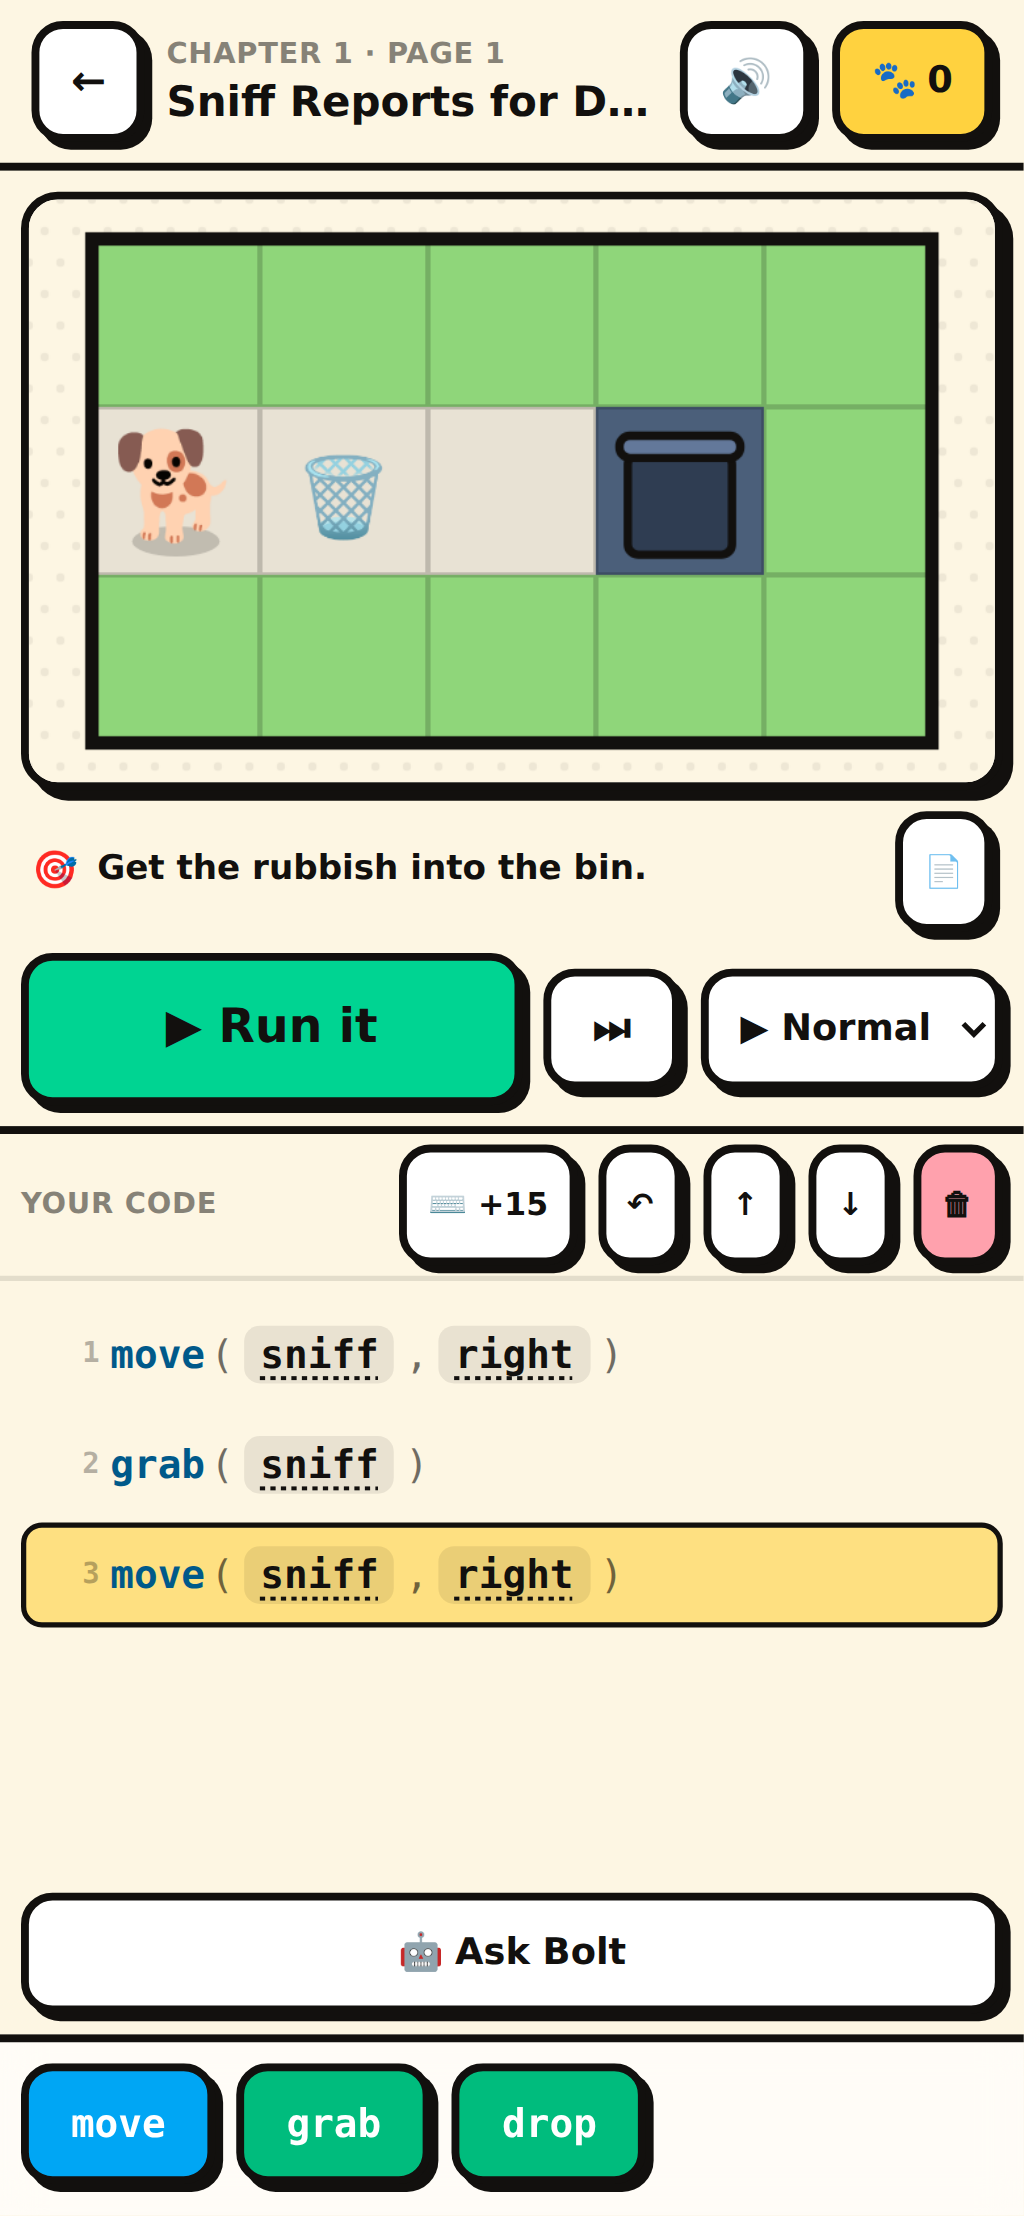
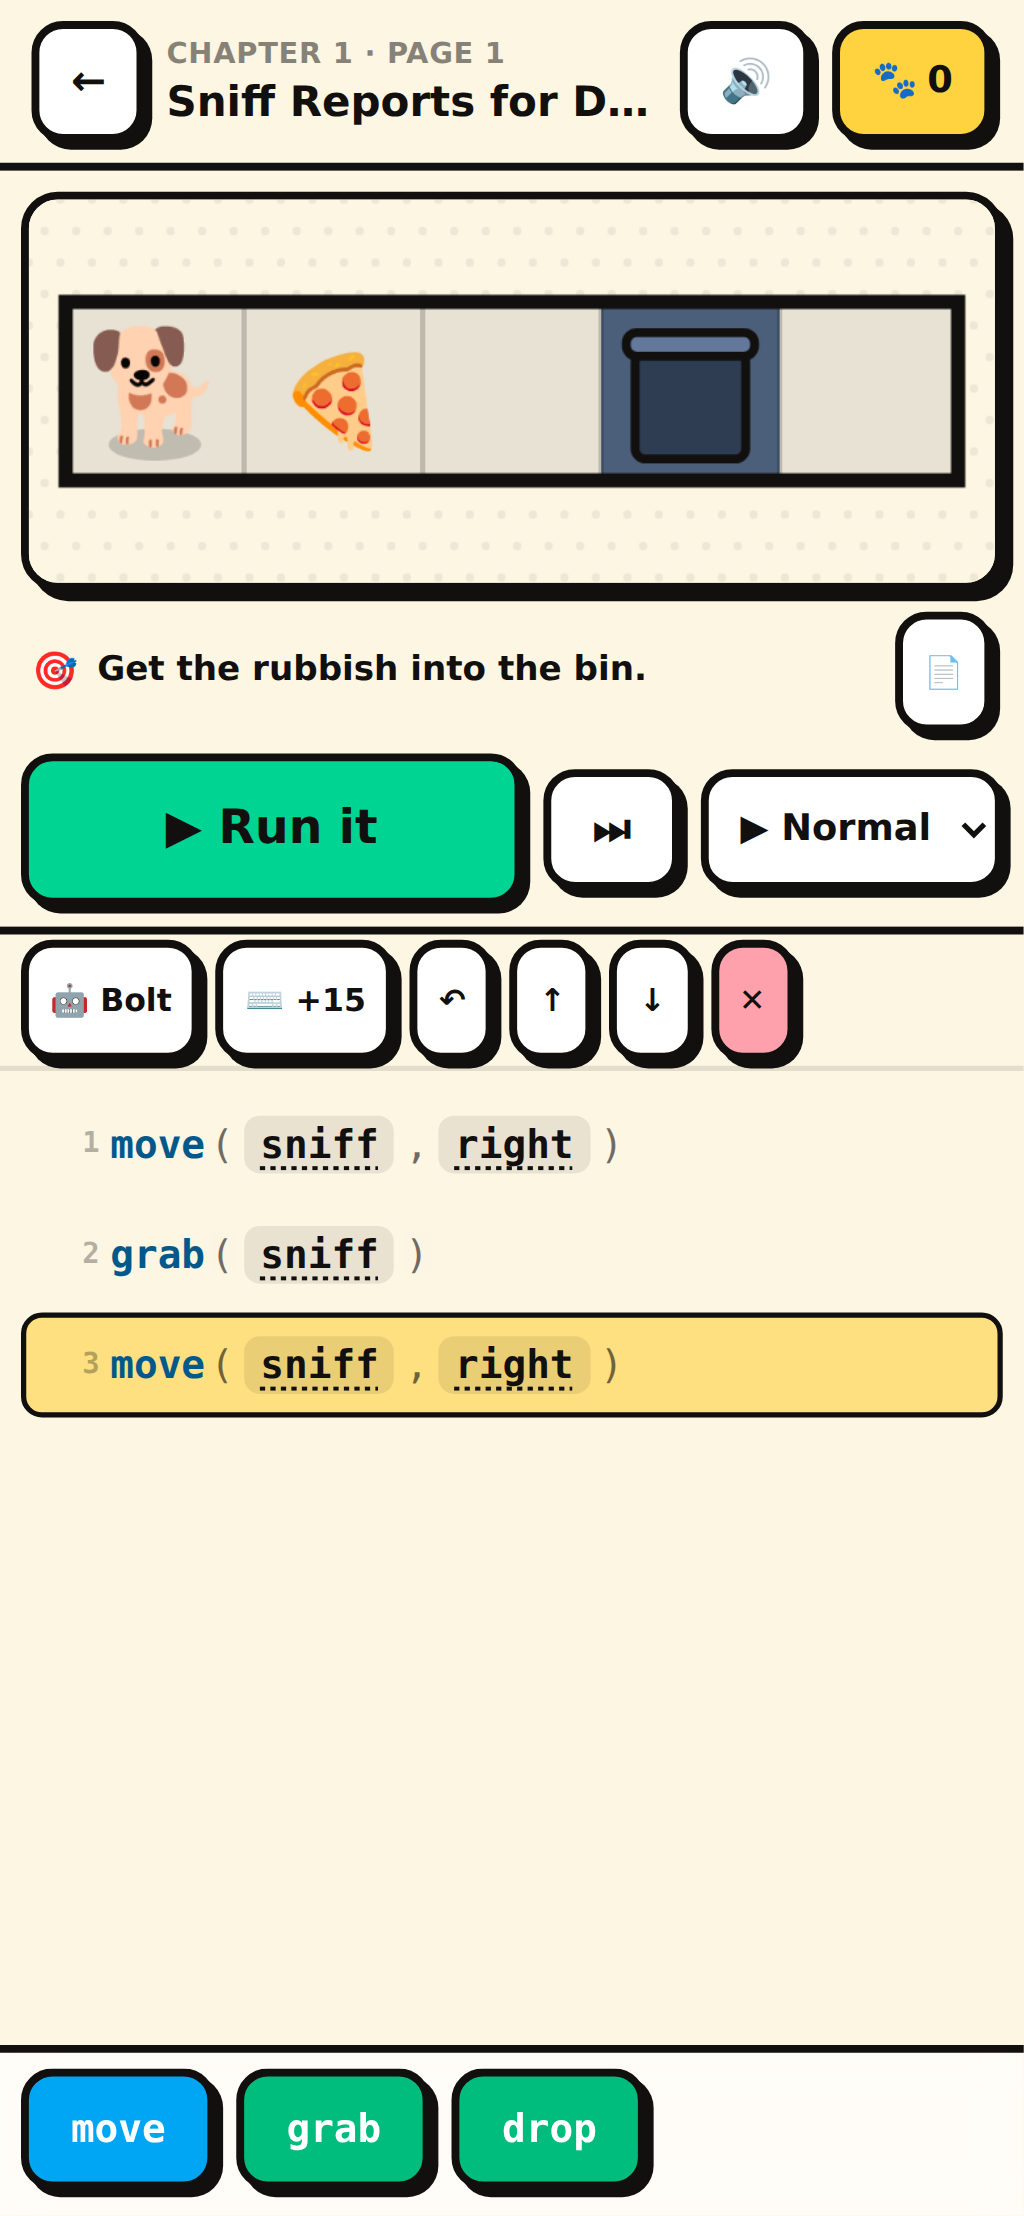
Fix two problems found playtesting on Henry's phone
He could not see his own code, and he could not tell the rubbish from the bin.

THE CODE WAS BURIED. On a real phone — 390x844 minus Chrome's own UI, so about
660px — the stage, goal, run bar, Bolt's error block and a full-width Ask Bolt
row all claimed fixed height first, and the code got whatever was left. That
was 40px: one line, clipped in half. The thing he is actually making was the
least visible thing on screen.

Three changes, measured rather than guessed:

- The level grids were three rows tall and only the middle one is ever walked
  on. The other two were decoration costing two-thirds of the stage height. The
  worlds are now one row, which lets the stage shrink from 158px to 119px while
  making Sniff considerably BIGGER, because height stops being the constraint.
- Bolt's error now replaces the goal line rather than taking a block of its
  own. Two earlier attempts were both wrong: a block of its own squeezed the
  code, and an overlay covered the row of the world where the mistake actually
  happened, which is the half of the lesson you can see.
- Ask Bolt moved into the code toolbar, and the toolbar and brick bar lost
  padding they did not need. Touch targets stay at 46px.

Code area: 40px to 201px. There is a regression test at 390x660 that builds
code, forces an error, and asserts the code panel is over 180px and on screen.

THE RUBBISH WAS A BIN. It was drawn as the wastebasket emoji, on a board whose
[…]

diff --git a/app/play/[levelId]/PlayScreen.tsx b/app/play/[levelId]/PlayScreen.tsx
@@ -289,49 +289,73 @@ export function PlayScreen({ levelId }: { levelId: string }) {
       <div className="flex min-h-0 flex-1 flex-col lg:flex-row">
         {/* Stage */}
         <section className="flex min-h-0 shrink-0 flex-col gap-2 p-2 lg:flex-1">
-          <div className="h-[27dvh] min-h-36 lg:h-auto lg:max-h-[62dvh] lg:flex-1">
+          <div className="relative h-[18dvh] min-h-24 lg:h-auto lg:max-h-[34dvh] lg:flex-1">
             <Stage world={world} frames={runResult?.frames ?? []} index={playback.index} t={playback.t} />
+
           </div>
 
-          <div className="flex items-center gap-2 px-1">
-            <span className="text-sm">🎯</span>
-            <p className="min-w-0 flex-1 truncate text-[13px] font-bold">{level.goalText}</p>
-            <button
-              type="button"
-              onClick={() => setShowBrief(true)}
-              className="chunk min-h-9 bg-white px-2 text-xs"
-              title="Read the case file again"
-            >
-              📄
-            </button>
-          </div>
-
-          <RunBar playback={playback} hasCode={program.length > 0} onRun={run} onStop={playback.pause} />
-
-          {banner && (
-            <div className="panel shake border-danger bg-rose-50 p-3">
-              <p className="text-sm font-black leading-snug">🤖 {banner.boltSays}</p>
-              {banner.tryThis && <p className="mt-1 text-xs font-bold opacity-70">{banner.tryThis}</p>}
+          {/* While something has gone wrong, Bolt says so HERE, in place of the
+              goal. Two earlier versions were both wrong: a block of its own
+              squeezed the code down to one clipped line on a phone, and an
+              overlay covered the row of the world where the mistake actually
+              happened — which is the half of the lesson you can see. */}
+          {banner ? (
+            <div className="panel shake flex items-start gap-2 border-danger bg-rose-50 px-2 py-1">
+              <span className="text-sm leading-5">🤖</span>
+              <div className="min-w-0 flex-1">
+                <p className="line-clamp-2 text-[13px] font-black leading-snug">{banner.boltSays}</p>
+                {banner.tryThis && (
+                  <p className="line-clamp-1 text-[11px] font-bold leading-snug opacity-70">{banner.tryThis}</p>
+                )}
+              </div>
+              <button
+                type="button"
+                onClick={() => setBanner(null)}
+                aria-label="Close"
+                className="-mt-0.5 px-1 text-sm font-black opacity-45"
+              >
+                ✕
+              </button>
+            </div>
+          ) : (
+            <div className="flex items-center gap-2 px-1">
+              <span className="text-sm">🎯</span>
+              <p className="min-w-0 flex-1 truncate text-[13px] font-bold">{level.goalText}</p>
+              <button
+                type="button"
+                onClick={() => setShowBrief(true)}
+                className="chunk min-h-9 bg-white px-2 text-xs"
+                title="Read the case file again"
+              >
+                📄
+              </button>
             </div>
           )}
+
+          <RunBar playback={playback} hasCode={program.length > 0} onRun={run} onStop={playback.pause} />
         </section>
 
         {/* Code */}
-        <section className="flex min-h-0 flex-1 flex-col border-t-[3px] border-ink lg:border-l-[3px] lg:border-t-0">
-          <div className="flex items-center gap-2 border-b-2 border-black/10 px-2 py-1">
-            <span className="flex-1 text-[11px] font-black uppercase tracking-wide opacity-50">Your code</span>
-            <button type="button" onClick={() => setTyping((v) => !v)} className="chunk bg-white px-2 text-xs" title="Type a line yourself for bonus XP">
+        <section className="flex min-h-[32dvh] flex-1 flex-col border-t-[3px] border-ink lg:min-h-0 lg:border-l-[3px] lg:border-t-0">
+          <div className="flex items-center gap-1.5 border-b-2 border-black/10 px-2 py-0.5">
+            <span className="hidden text-[11px] font-black uppercase tracking-wide opacity-50 sm:block sm:flex-1">
+              Your code
+            </span>
+            <button type="button" onClick={() => setShowBolt(true)} className="chunk min-h-9 bg-white px-2 text-xs">
+              🤖 Bolt
+            </button>
+            <button type="button" onClick={() => setTyping((v) => !v)} className="chunk min-h-9 bg-white px-2 text-xs" title="Type a line yourself for bonus XP">
               ⌨ +{15}
             </button>
-            <button type="button" onClick={undo} disabled={!history.length} className="chunk bg-white px-2 text-xs">
+            <button type="button" onClick={undo} disabled={!history.length} className="chunk min-h-9 bg-white px-2 text-xs">
               ↶
             </button>
             {selection && (
               <>
-                <button type="button" onClick={() => setProgram(moveStmt(program, selection.stmtId, -1))} className="chunk bg-white px-2 text-xs">
+                <button type="button" onClick={() => setProgram(moveStmt(program, selection.stmtId, -1))} className="chunk min-h-9 bg-white px-2 text-xs">
                   ↑
                 </button>
-                <button type="button" onClick={() => setProgram(moveStmt(program, selection.stmtId, 1))} className="chunk bg-white px-2 text-xs">
+                <button type="button" onClick={() => setProgram(moveStmt(program, selection.stmtId, 1))} className="chunk min-h-9 bg-white px-2 text-xs">
                   ↓
                 </button>
                 <button
@@ -340,9 +364,9 @@ export function PlayScreen({ levelId }: { levelId: string }) {
                     setProgram(removeStmt(program, selection.stmtId));
                     setSelection(null);
                   }}
-                  className="chunk bg-rose-300 px-2 text-xs"
+                  className="chunk min-h-9 bg-rose-300 px-2 text-xs"
                 >
-                  🗑
+                  ✕
                 </button>
               </>
             )}
@@ -367,7 +391,7 @@ export function PlayScreen({ levelId }: { levelId: string }) {
             </div>
           )}
 
-          <div className="min-h-0 flex-1 overflow-y-auto">
+          <div data-testid="code-scroll" className="min-h-0 flex-1 overflow-y-auto">
             <CodeList
               program={program}
               selection={selection}
@@ -377,10 +401,6 @@ export function PlayScreen({ levelId }: { levelId: string }) {
               errorStmtId={runResult?.error?.stmtId ?? null}
             />
           </div>
-
-          <button type="button" onClick={() => setShowBolt(true)} className="chunk mx-2 mb-2 bg-white py-2 text-sm">
-            🤖 Ask Bolt
-          </button>
 
           <BrickBar brickIds={level.bricks} onTap={tapBrick} onShowHelp={(b) => setBanner(new CoderXError(BRICKS[b.id].help))} />
         </section>

diff --git a/curriculum/chapter1/levels.ts b/curriculum/chapter1/levels.ts
@@ -13,8 +13,6 @@ import { parse } from '@/lang/parser';
 import { buildWorld } from '@/runtime/world';
 import type { Level } from '../types';
 
-const grass = (n: number) => '.'.repeat(n);
-
 export const CHAPTER1: Level[] = [
   {
     id: 'c1l1',
@@ -28,9 +26,9 @@ export const CHAPTER1: Level[] = [
     goalText: 'Get the rubbish into the bin.',
     makeWorld: () =>
       buildWorld({
-        grid: [grass(5), '---B.', grass(5)],
-        sprites: { sniff: { character: 'sniff', x: 0, y: 1 } },
-        rubbish: [{ x: 1, y: 1 }],
+        grid: ['---B-'],
+        sprites: { sniff: { character: 'sniff', x: 0, y: 0 } },
+        rubbish: [{ x: 1, y: 0 }],
       }),
     makeStarter: () => [],
     bricks: ['move', 'grab', 'drop'],
@@ -63,9 +61,9 @@ drop(sniff)`,
     goalText: 'Bin the rubbish, but use the number box.',
     makeWorld: () =>
       buildWorld({
-        grid: [grass(7), '-----B.', grass(7)],
-        sprites: { sniff: { character: 'sniff', x: 0, y: 1 } },
-        rubbish: [{ x: 2, y: 1 }],
+        grid: ['-----B-'],
+        sprites: { sniff: { character: 'sniff', x: 0, y: 0 } },
+        rubbish: [{ x: 2, y: 0 }],
       }),
     makeStarter: () => [],
     bricks: ['move-n', 'move', 'grab', 'drop'],
@@ -97,9 +95,9 @@ drop(sniff)`,
     goalText: 'Use a repeat to cross all six squares.',
     makeWorld: () =>
       buildWorld({
-        grid: [grass(8), '------B.', grass(8)],
-        sprites: { sniff: { character: 'sniff', x: 0, y: 1 } },
-        rubbish: [{ x: 0, y: 1 }],
+        grid: ['------B-'],
+        sprites: { sniff: { character: 'sniff', x: 0, y: 0 } },
+        rubbish: [{ x: 0, y: 0 }],
       }),
     makeStarter: () => [],
     bricks: ['move-n', 'grab', 'drop', 'repeat'],
@@ -132,12 +130,12 @@ drop(sniff)`,
     goalText: 'Bin all three pieces of rubbish.',
     makeWorld: () =>
       buildWorld({
-        grid: [grass(7), '-B-B-B-', grass(7)],
-        sprites: { sniff: { character: 'sniff', x: 0, y: 1 } },
+        grid: ['-B-B-B-'],
+        sprites: { sniff: { character: 'sniff', x: 0, y: 0 } },
         rubbish: [
-          { x: 0, y: 1 },
-          { x: 2, y: 1 },
-          { x: 4, y: 1 },
+          { x: 0, y: 0 },
+          { x: 2, y: 0 },
+          { x: 4, y: 0 },
         ],
       }),
     makeStarter: () => [],
@@ -171,12 +169,12 @@ drop(sniff)`,
     goalText: 'Bin every piece — without grabbing at nothing.',
     makeWorld: () =>
       buildWorld({
-        grid: [grass(6), 'BBBBB.', grass(6)],
-        sprites: { sniff: { character: 'sniff', x: 0, y: 1 } },
+        grid: ['BBBBB-'],
+        sprites: { sniff: { character: 'sniff', x: 0, y: 0 } },
         rubbish: [
-          { x: 0, y: 1 },
-          { x: 2, y: 1 },
-          { x: 3, y: 1 },
+          { x: 0, y: 0 },
+          { x: 2, y: 0 },
+          { x: 3, y: 0 },
         ],
       }),
     makeStarter: () => [],
@@ -212,12 +210,12 @@ drop(sniff)`,
     goalText: 'Bin everything, then make Sniff say something.',
     makeWorld: () =>
       buildWorld({
-        grid: [grass(11), 'B.B.B.B.B..', grass(11)],
-        sprites: { sniff: { character: 'sniff', x: 0, y: 1 } },
+        grid: ['B-B-B-B-B--'],
+        sprites: { sniff: { character: 'sniff', x: 0, y: 0 } },
         rubbish: [
-          { x: 0, y: 1 },
-          { x: 4, y: 1 },
-          { x: 8, y: 1 },
+          { x: 0, y: 0 },
+          { x: 4, y: 0 },
+          { x: 8, y: 0 },
         ],
       }),
     makeStarter: () => [],

diff --git a/e2e/play.spec.ts b/e2e/play.spec.ts
@@ -149,3 +149,44 @@ test('a nested if inside a repeat can be built by tapping', async ({ page }) => 
   await page.getByRole('button', { name: /Run it/ }).click();
   await expect(page.getByRole('heading', { name: 'Nailed it!' })).toBeVisible({ timeout: 30_000 });
 });
+
+/**
+ * Regression from real playtesting on a phone.
+ *
+ * Henry could not see his own code: it had been squeezed to a single clipped
+ * line at the bottom of the screen, because the stage, the goal, the run bar,
+ * Bolt's error block and an Ask Bolt row all took fixed height first and the
+ * code got whatever was left. The viewport here is deliberately 660px — a
+ * 390x844 phone minus the browser's own chrome, which is what he actually has.
+ */
+test('the code stays visible on a real phone, even with an error showing', async ({ page }) => {
+  await page.setViewportSize({ width: 390, height: 660 });
+  await enterHQ(page);
+  await openLevelOne(page);
+
+  // Grabbing before moving finds nothing — the worst case for layout, because
+  // Bolt's error used to take a whole block of its own.
+  await tapBrick(page, 'grab');
+  await tapBrick(page, 'move', goRight(page));
+  await tapBrick(page, 'move', goRight(page));
+
+  await page.getByRole('button', { name: /Run it/ }).click();
+  await expect(page.getByText(/grabbed some air|bonked/)).toBeVisible({ timeout: 20_000 });
+
+  const scroller = page.getByTestId('code-scroll');
+  const box = await scroller.boundingBox();
+  expect(box).not.toBeNull();
+
+  // Enough room for several lines, not one clipped one. It was 40px.
+  expect(box!.height).toBeGreaterThan(180);
+  // And it must sit inside the viewport rather than off the bottom.
+  expect(box!.y + box!.height).toBeLessThanOrEqual(660);
+
+  // The first line of his code is actually on screen.
+  const first = page.getByRole('listitem').first();
+  const fb = await first.boundingBox();
+  expect(fb!.y).toBeGreaterThan(box!.y - 1);
+  expect(fb!.y + fb!.height).toBeLessThanOrEqual(660);
+
+  await page.screenshot({ path: 'screenshots/phone-small-play.png' });
+});

diff --git a/runtime/render.ts b/runtime/render.ts
@@ -11,6 +11,21 @@ import { CHARACTERS, type Effect, type Frame, type WorldState } from './world';
 
 const INK = '#12100e';
 
+/**
+ * Litter, and specifically NOT a wastebasket.
+ *
+ * Rubbish used to be drawn as 🗑 — which is a bin — sitting on a board whose
+ * goal is putting things in a bin. Two bins on screen, and no way for an
+ * 8-year-old to tell which was which. Everything here is unmistakably dropped
+ * litter, and it varies per piece so a messy street looks messy.
+ */
+const LITTER = ['🍌', '🥤', '🍕', '📰', '🧃'];
+
+export function litterGlyph(id: string): string {
+  const n = [...id].reduce((sum, c) => sum + c.charCodeAt(0), 0);
+  return LITTER[n % LITTER.length];
+}
+
 const lerp = (a: number, b: number, t: number) => a + (b - a) * t;
 const easeOut = (t: number) => 1 - (1 - t) * (1 - t);
 
@@ -223,7 +238,13 @@ export function drawScene(
     const y = before ? lerp(before.y, r.y, ease) : r.y;
     const { cx, cy } = centre(x, y);
     const carried = Object.values(world.sprites).some((s) => s.carrying === r.id);
-    glyph(ctx, '🗑', cx, cy + (carried ? -L.cell * 0.42 : L.cell * 0.06), L.cell * (carried ? 0.34 : 0.46));
+    glyph(
+      ctx,
+      litterGlyph(r.id),
+      cx,
+      cy + (carried ? -L.cell * 0.42 : L.cell * 0.08),
+      L.cell * (carried ? 0.36 : 0.5),
+    );
   }
 
   // Characters.

diff --git a/editor/BrickBar.tsx b/editor/BrickBar.tsx
@@ -21,7 +21,7 @@ export function BrickBar({
   const bricks = bricksFor(brickIds);
 
   return (
-    <div className="border-t-[3px] border-ink bg-white/70 px-2 py-2 backdrop-blur">
+    <div className="border-t-[3px] border-ink bg-white/70 px-2 py-1.5 backdrop-blur">
       <div className="flex gap-2 overflow-x-auto pb-1 [scrollbar-width:none] [&::-webkit-scrollbar]:hidden">
         {bricks.map((brick) => (
           <button

diff --git a/tests/lang.test.ts b/tests/lang.test.ts
@@ -8,9 +8,9 @@ import { hole, type Program } from '@/lang/types';
 
 const street = () =>
   buildWorld({
-    grid: ['.....', '---B.', '.....'],
-    sprites: { sniff: { character: 'sniff', x: 0, y: 1 } },
-    rubbish: [{ x: 1, y: 1 }],
+    grid: ['---B.'],
+    sprites: { sniff: { character: 'sniff', x: 0, y: 0 } },
+    rubbish: [{ x: 1, y: 0 }],
   });
 
 describe('parser', () => {
